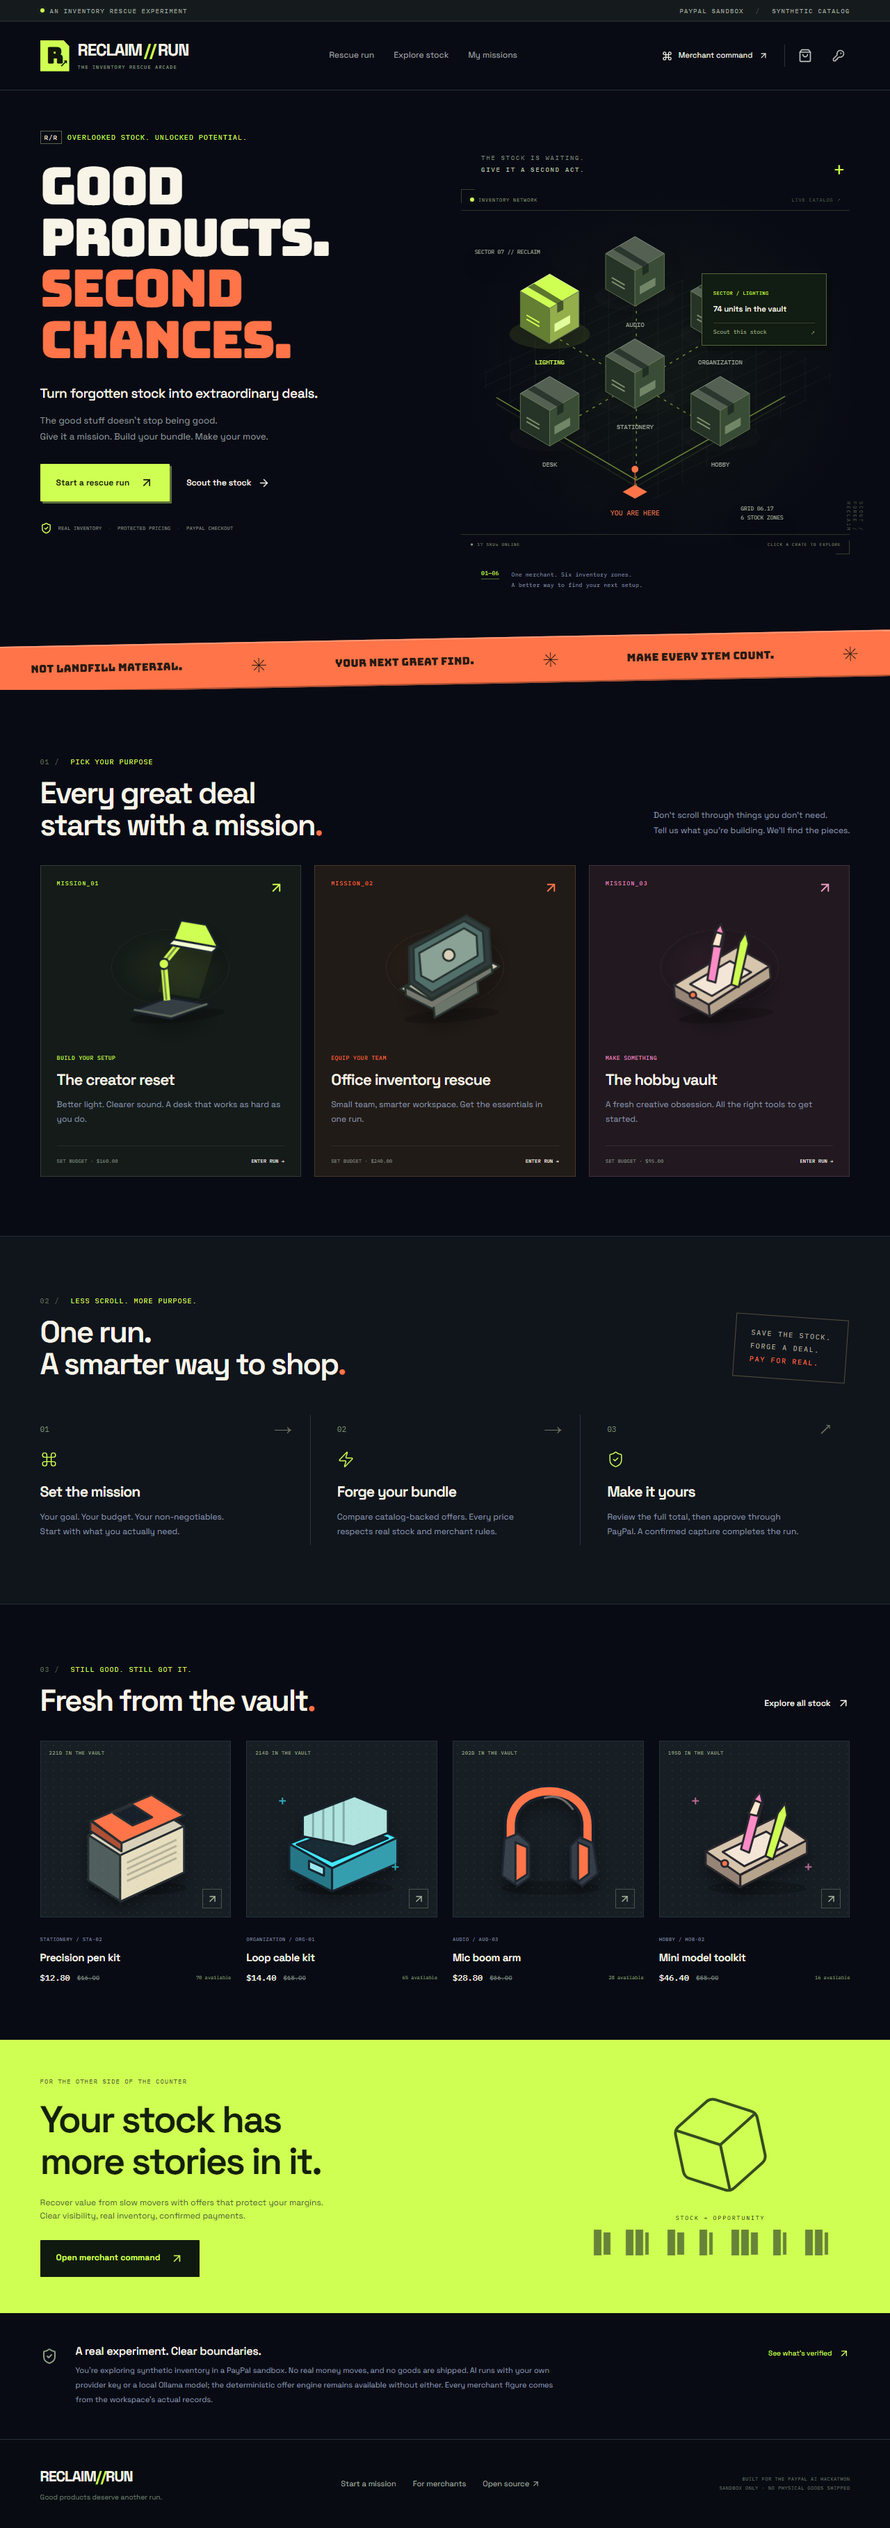
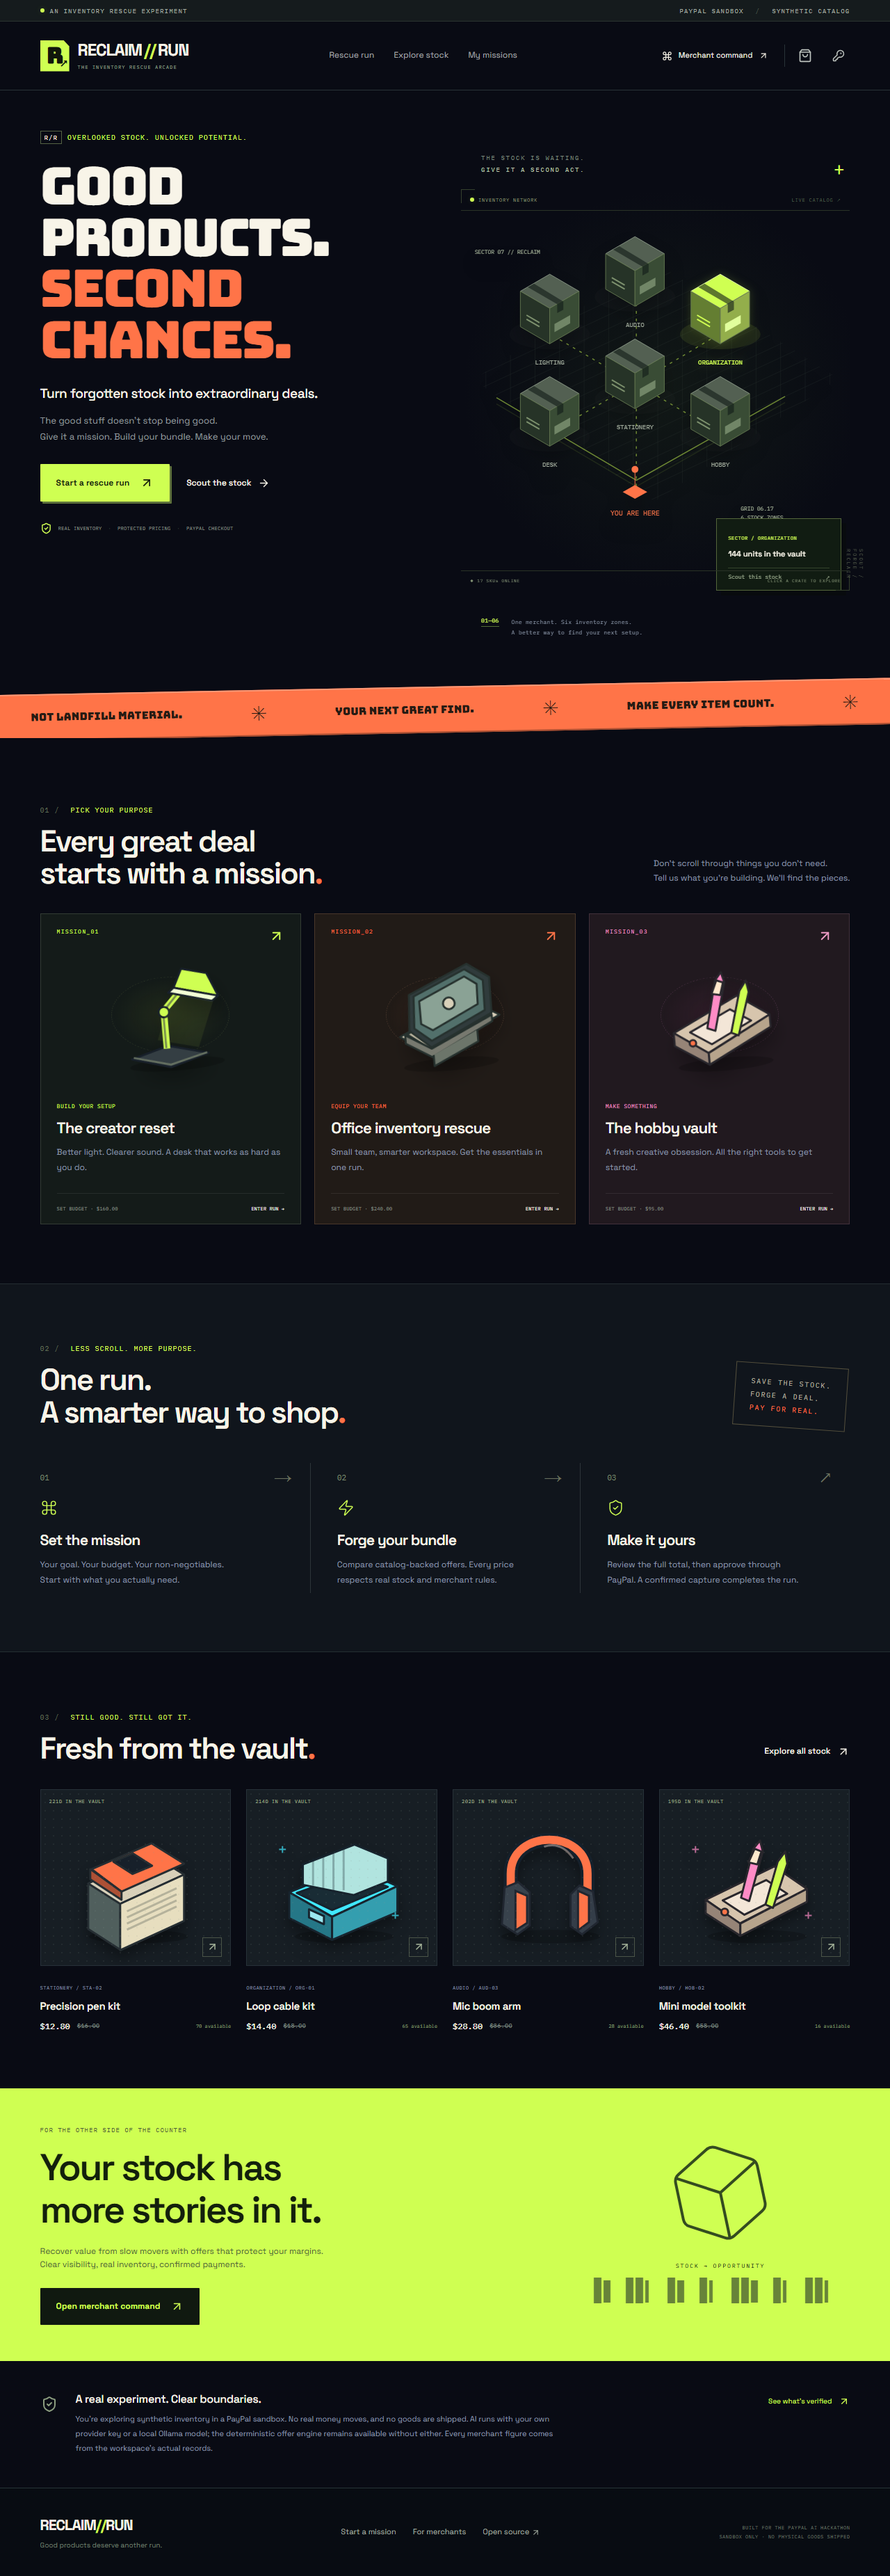
Keep all warehouse inventory nodes reachable above sector callout

diff --git a/tests/e2e/flows.spec.ts b/tests/e2e/flows.spec.ts
@@ -4,6 +4,8 @@ test('landing, interactive warehouse, search and product details', async ({ page
   page.on('pageerror', (e) => errors.push(e.message));
   await page.goto('/');
   await expect(page.getByRole('heading', { level: 1 })).toContainText('GOOD');
+  await page.getByRole('button', { name: 'Explore Organization', exact: true }).hover();
+  await expect(page.locator('.warehouse-tooltip')).toContainText('ORGANIZATION');
   await page.screenshot({ path: 'docs/screenshots/landing-desktop.png', fullPage: true });
   await page.getByRole('button', { name: 'Explore Audio', exact: true }).click();
   await expect(page).toHaveURL('/stock');

diff --git a/src/styles.css b/src/styles.css
@@ -5025,3 +5025,12 @@ td small {
     color: #333;
   }
 }
+
+/* Keep every inventory node reachable; the selected-sector callout stays below the map. */
+.warehouse-tooltip {
+  position: relative;
+  top: auto;
+  right: auto;
+  width: max-content;
+  margin: -52px 12px 38px auto;
+}
